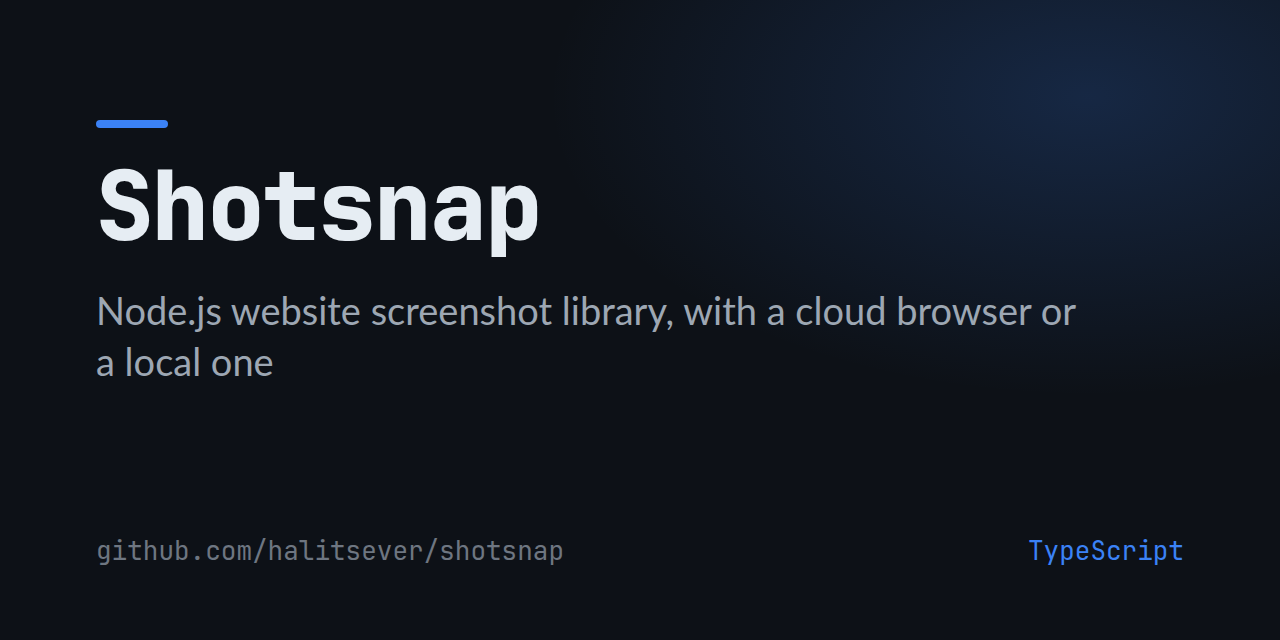
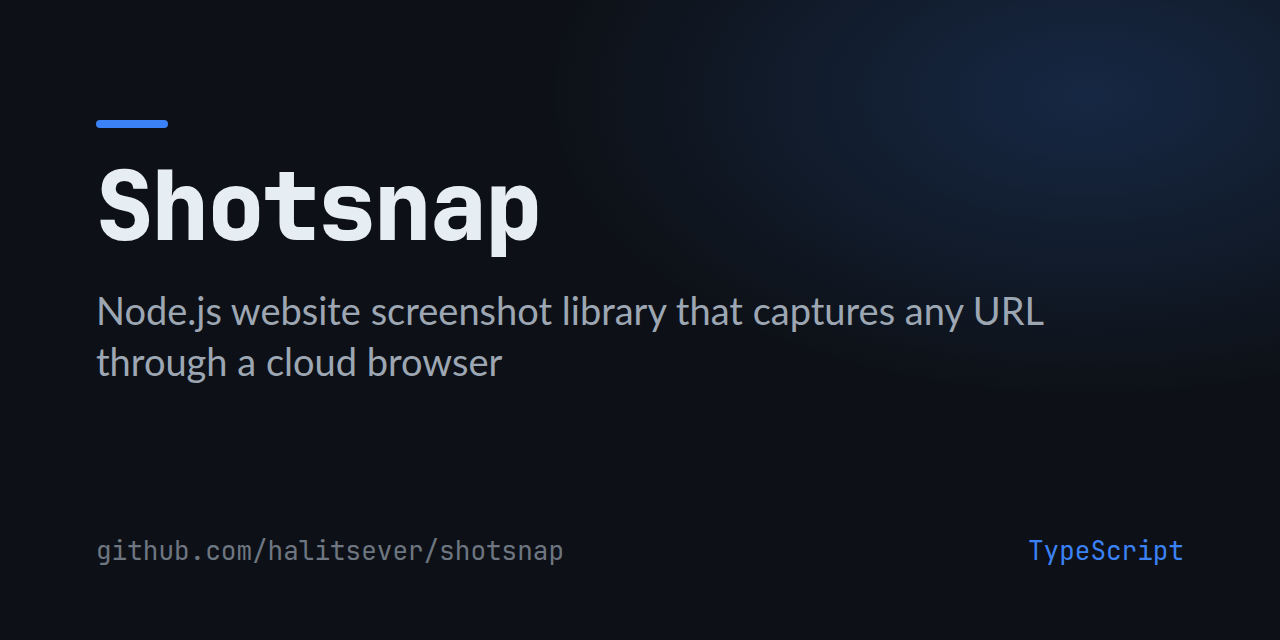
docs: drop the unpublished shotsnap-puppeteer from SEO text

Changed region(s): [[0.0625, 0.5312, 0.4062, 0.5938], [0.5312, 0.4688, 0.8438, 0.5312]]

diff --git a/Readme.md b/Readme.md
@@ -4,7 +4,7 @@
 <img src="https://halitsever-api.vercel.app/api/repo-title?title=Shotsnap">
 
 <p align="center">
-📷 Node.js library that takes a website screenshot from a URL through a cloud browser, with shotsnap-puppeteer for a local browser<br>
+📷 Node.js library that takes a website screenshot from a URL through a hosted cloud browser and returns it as a Buffer<br>
 <br/>
   <a  href="https://www.producthunt.com/posts/shotsnap?utm_source=badge-featured&utm_medium=badge&utm_souce=badge-shotsnap"  target="_blank"><img  src="https://api.producthunt.com/widgets/embed-image/v1/featured.svg?post_id=361871&theme=light"  alt="Shotsnap - screenshot&#0044;&#0032;web&#0032;capture | Product Hunt"  height="30" /></a>
 <br/><br/>

diff --git a/docs/get-started.md b/docs/get-started.md
@@ -1,6 +1,6 @@
 ---
 title: Getting Started
-description: "Install shotsnap to take website screenshots in Node.js through a cloud browser, or shotsnap-puppeteer to use a local browser."
+description: "Install shotsnap to take website screenshots in Node.js through a hosted cloud browser."
 ---
 
 **Installation**
